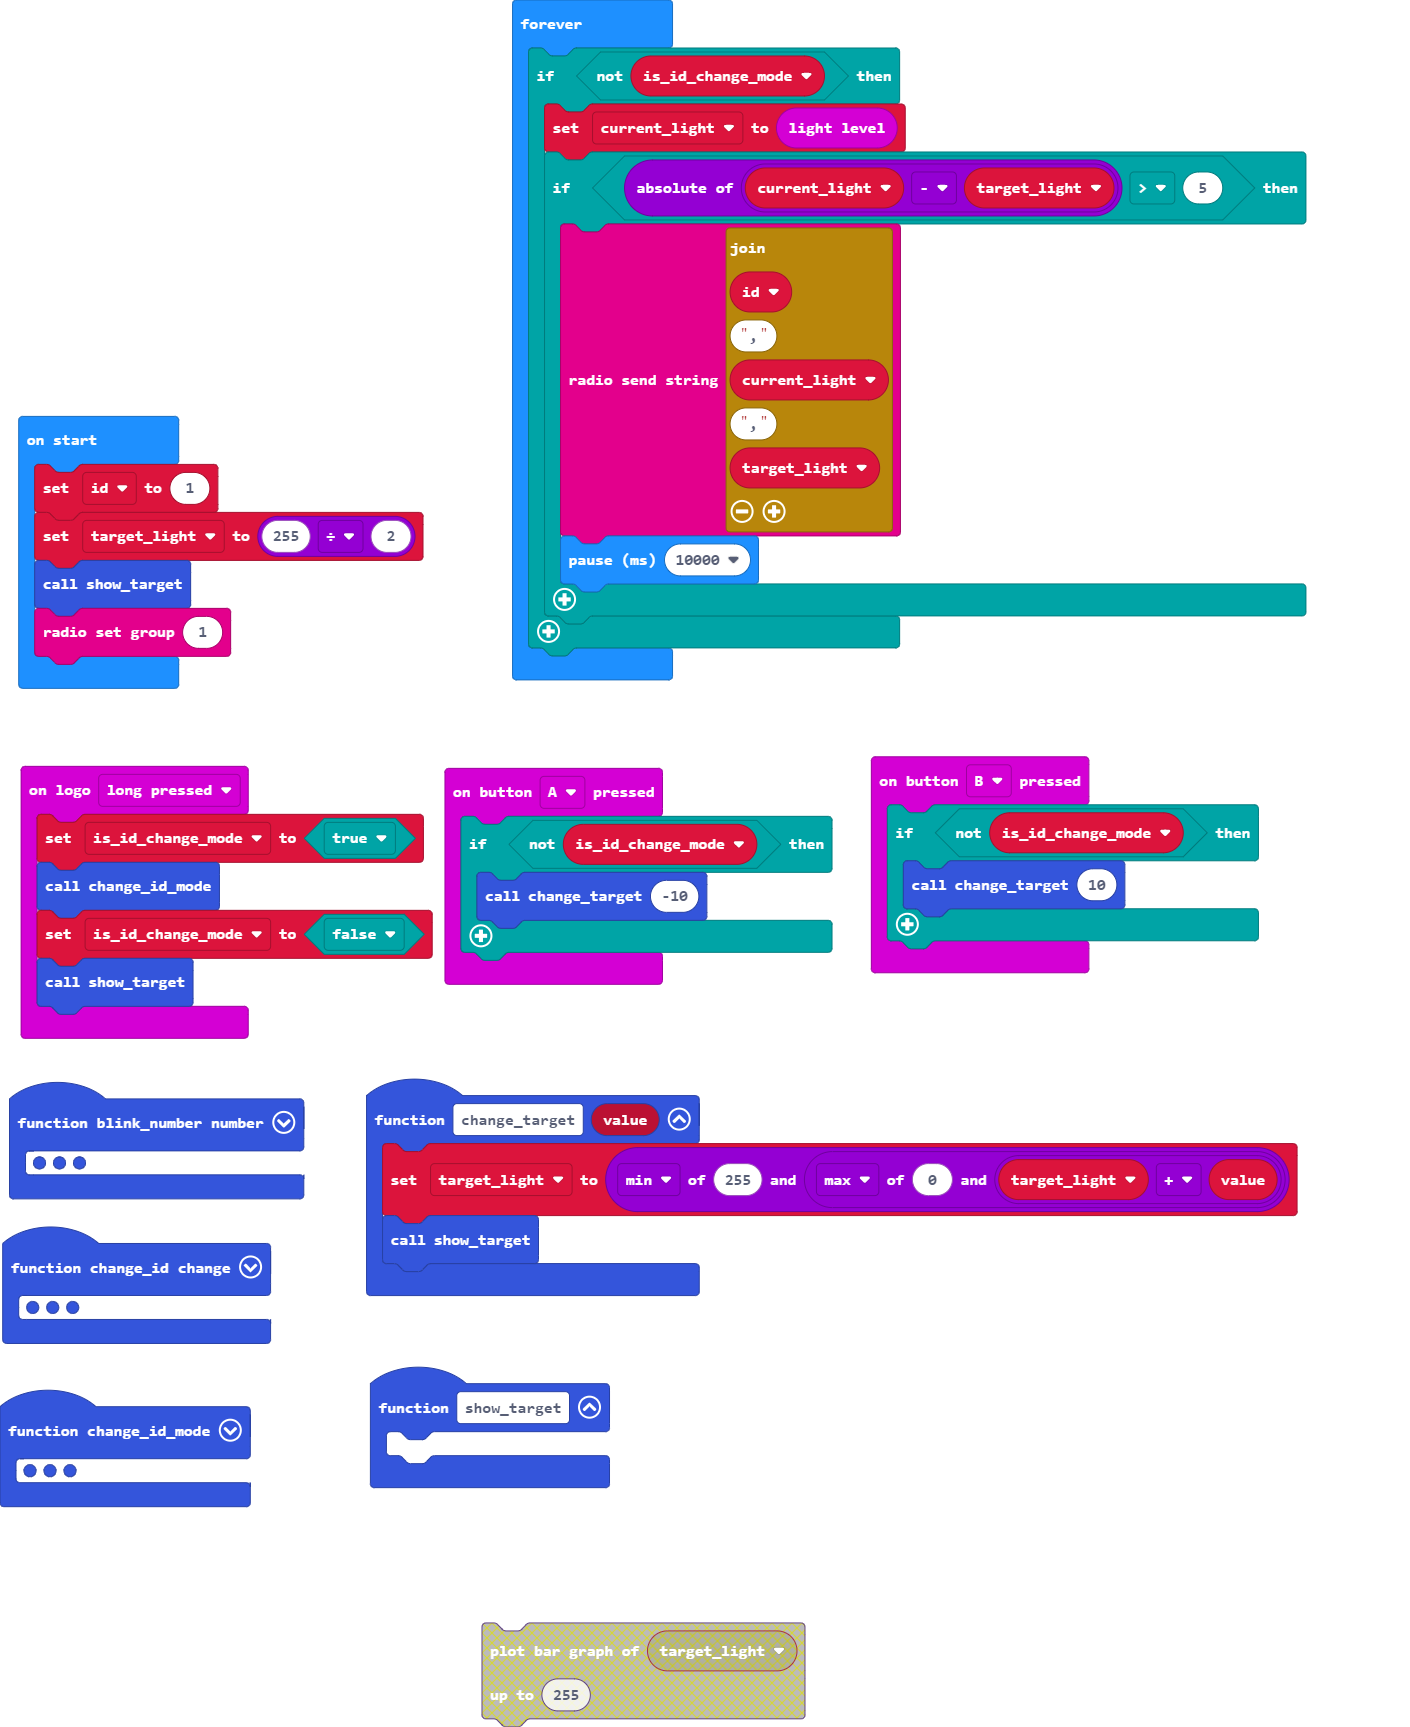
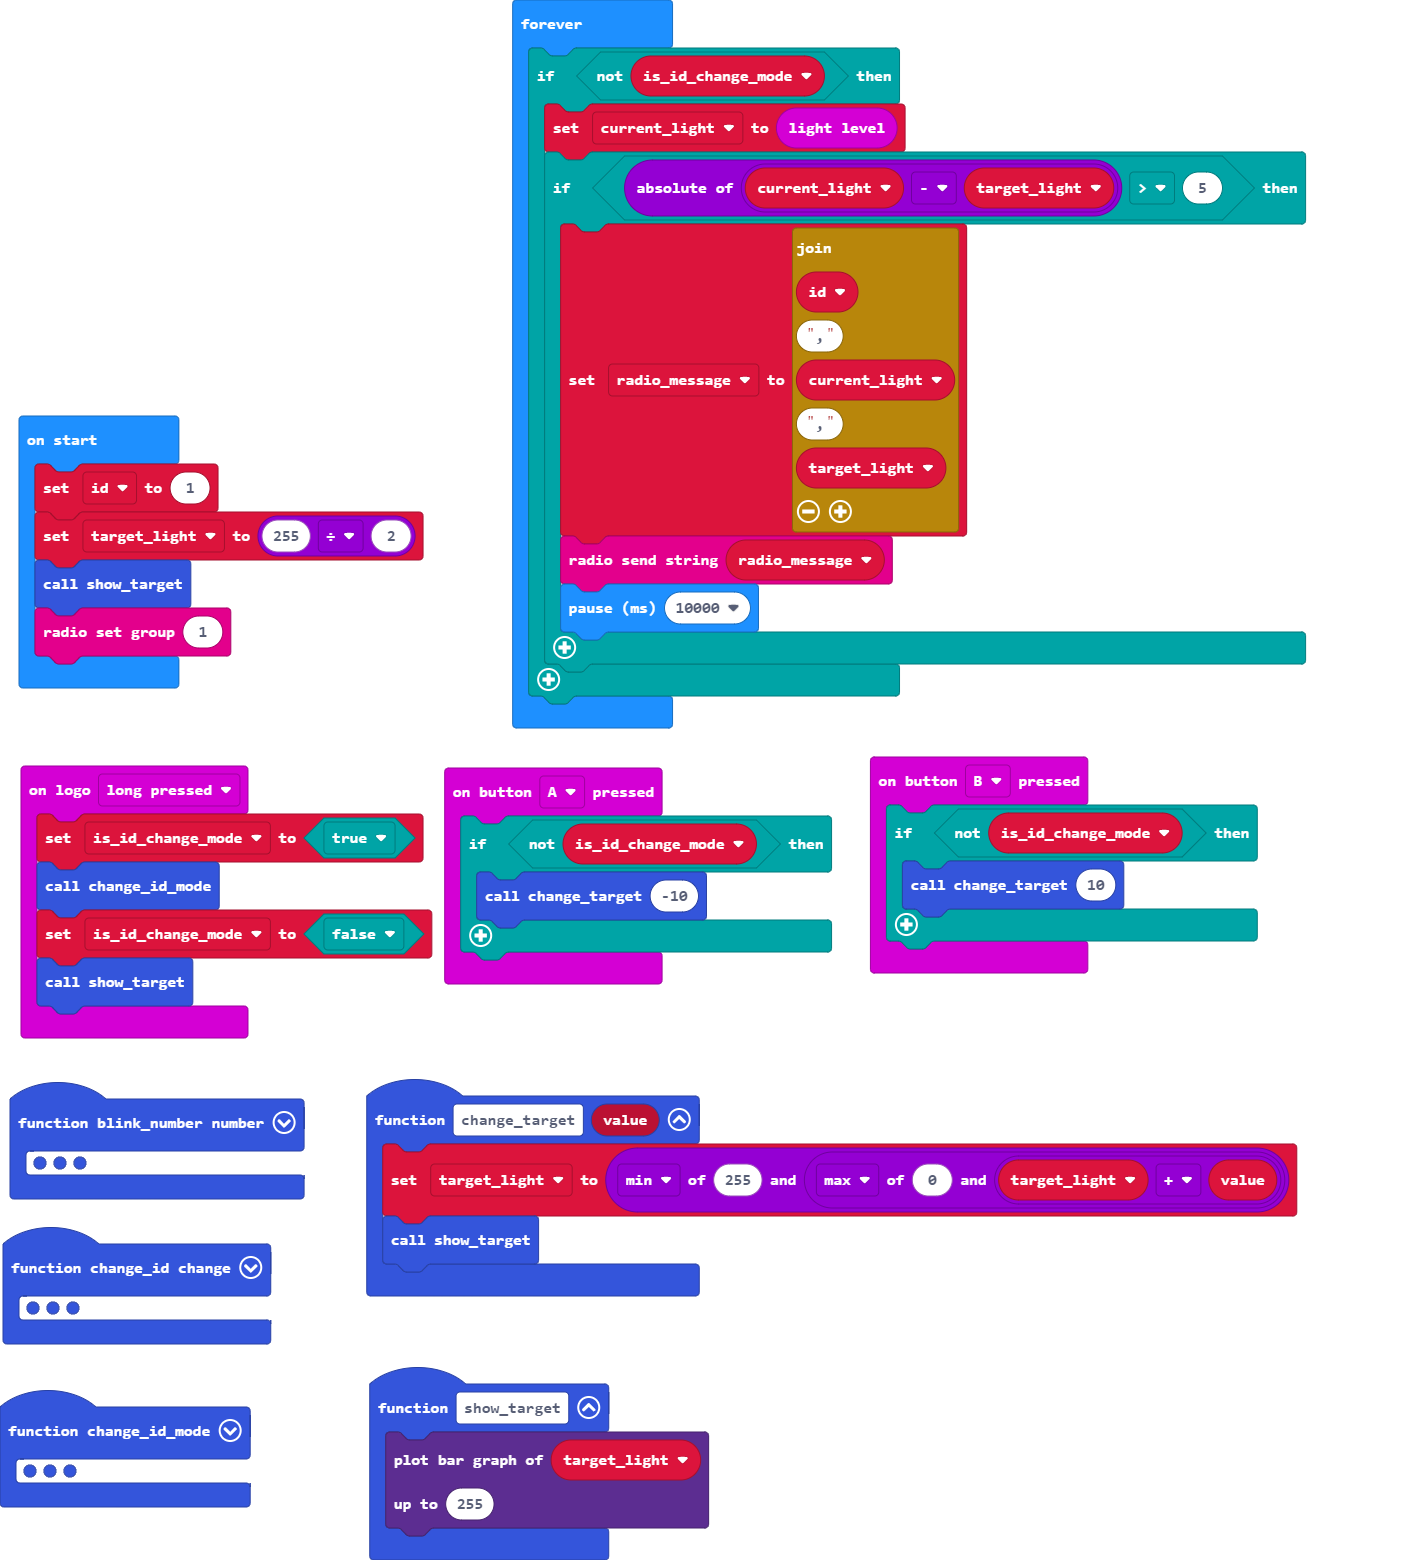
Working slave code

diff --git a/main.ts b/main.ts
@@ -33,7 +33,10 @@ function change_id (change: number) {
     basic.showNumber(id)
 }
 function show_target () {
-	
+    led.plotBarGraph(
+    target_light,
+    255
+    )
 }
 function change_id_mode () {
     id_change_timeout = control.millis() + 10000
@@ -47,6 +50,7 @@ function change_id_mode () {
     }
     blink_number(id)
 }
+let radio_message = ""
 let current_light = 0
 let id_change_timeout = 0
 let is_id_change_mode = false
@@ -60,7 +64,8 @@ basic.forever(function () {
     if (!(is_id_change_mode)) {
         current_light = input.lightLevel()
         if (Math.abs(current_light - target_light) > 5) {
-            radio.sendString("" + id + "," + current_light + "," + target_light)
+            radio_message = "" + id + "," + current_light + "," + target_light
+            radio.sendString(radio_message)
             basic.pause(10000)
         }
     }
